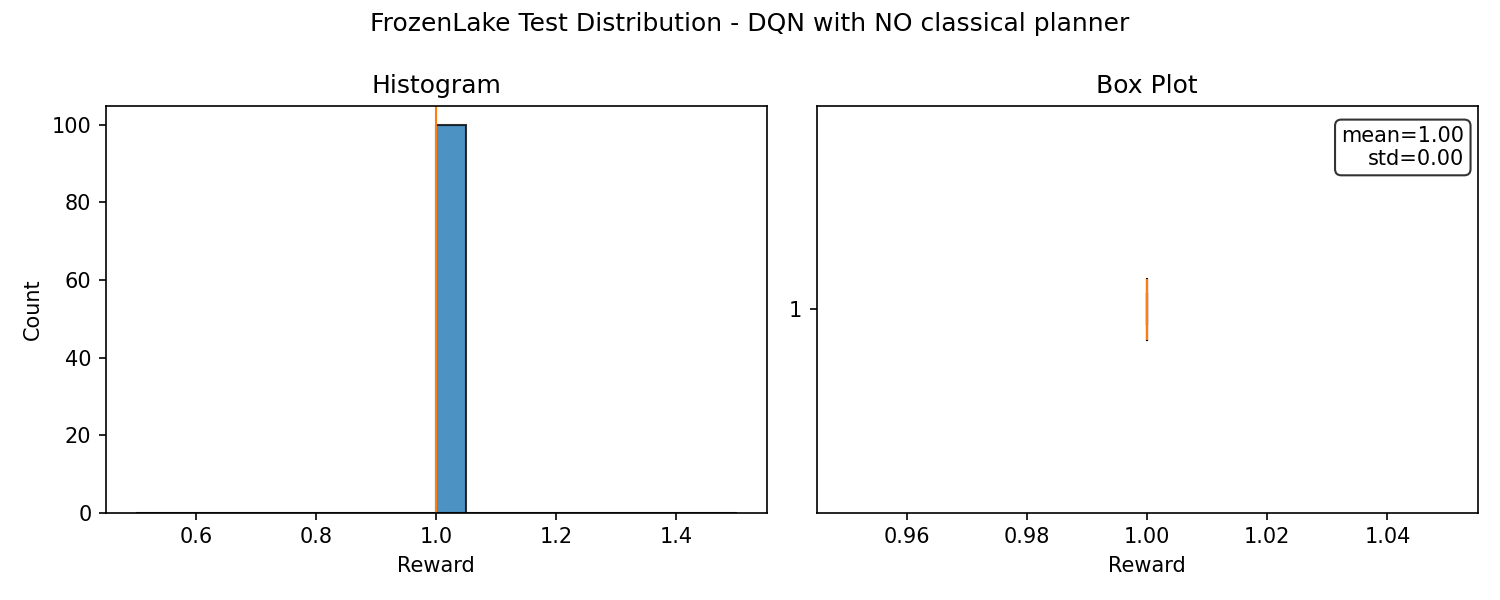
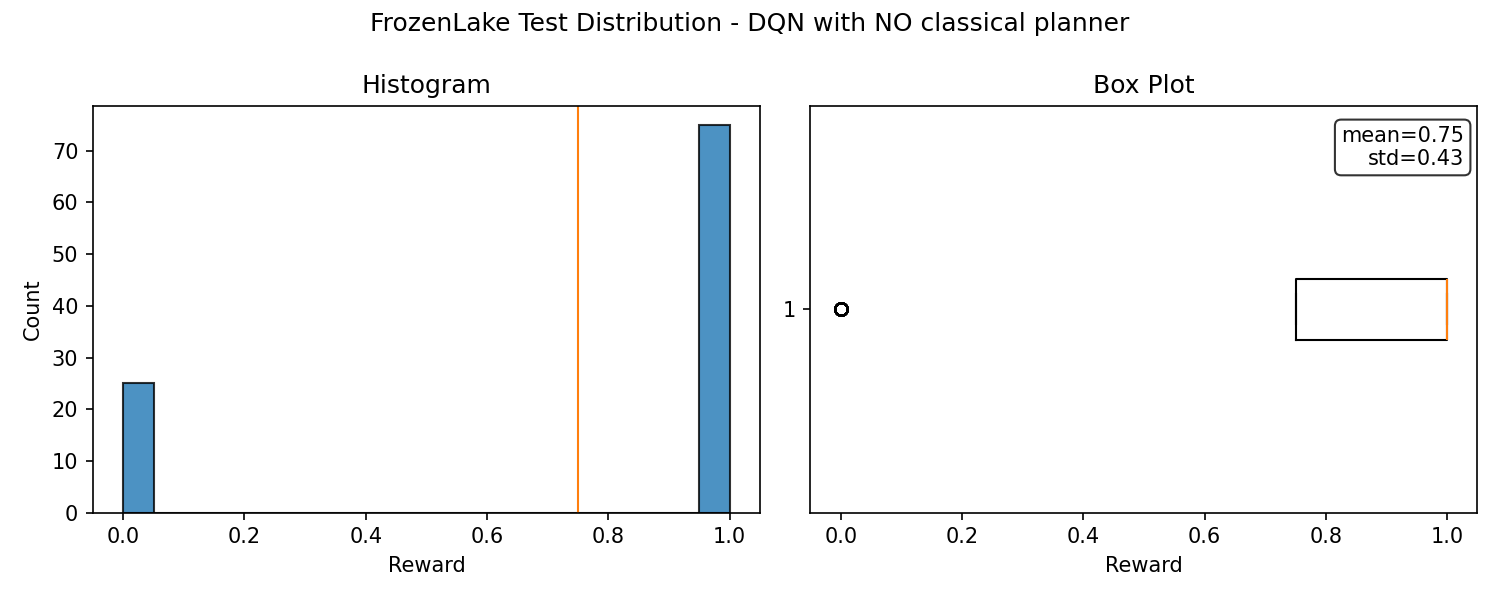
complete removal of plan horizon and fix episode environments/seeds

diff --git a/planned-deterministic-frozen-lake/dqn_agent.py b/planned-deterministic-frozen-lake/dqn_agent.py
@@ -35,11 +35,11 @@ GAMMA = 0.99
 LR = 1e-3
 EPSILON_START = 1.0
 EPSILON_MIN = 0.05
-EPSILON_DECAY_STEPS = 5000
-MEMORY_SIZE = 5000
-BATCH_SIZE = 64
-WARM_UP_STEPS = 128
-TARGET_UPDATE_STEPS = 50
+EPSILON_DECAY_STEPS = 50000
+MEMORY_SIZE = 50000
+BATCH_SIZE = 128
+WARM_UP_STEPS = 512
+TARGET_UPDATE_STEPS = 100
 
 
 # ===============================
@@ -92,8 +92,6 @@ class DQNAgent:
         self.planner_misses = 0
         self.planner_cache_hits = 0
         self._plan_cache: Dict[int, Optional[List[str]]] = {}
-        self._await_planned_outcome = False
-        self._expected_next_state_after_planned_action = -1
 
     def one_hot(self, state):
         vec = np.zeros(self.state_size, dtype=np.float32)
@@ -104,14 +102,12 @@ class DQNAgent:
         if random.random() < self.epsilon:
             return self.select_explore_action(env, state)
 
-        self._clear_planned_step_expectation()
         return self.select_exploit_action(state)
 
     def select_explore_action(self, env, state):
         if self.use_planner:
             return self.select_planned_action(env, state)
 
-        self._clear_planned_step_expectation()
         return random.randrange(self.action_size)
 
     def select_exploit_action(self, state):
@@ -124,28 +120,8 @@ class DQNAgent:
     def select_planned_action(self, env, state):
         planned_action = self.get_planned_action(env, state)
         if planned_action is None:
-            self._clear_planned_step_expectation()
             return random.randrange(self.action_size)
-        action, expected_next = planned_action
-        self._set_planned_step_expectation(expected_next)
-        return action
-
-    def _set_planned_step_expectation(self, expected_next_state: int) -> None:
-        self._await_planned_outcome = True
-        self._expected_next_state_after_planned_action = expected_next_state
-
-    def _clear_planned_step_expectation(self) -> None:
-        self._await_planned_outcome = False
-        self._expected_next_state_after_planned_action = -1
-
-    def validate_planned_transition(self, next_state: int) -> None:
-        if not self.use_planner or not self._await_planned_outcome:
-            self._clear_planned_step_expectation()
-            return
-        if next_state != self._expected_next_state_after_planned_action:
-            self._clear_planned_step_expectation()
-        else:
-            self._clear_planned_step_expectation()
+        return planned_action
 
     def get_planned_action(self, env, state):
         if state in self._plan_cache:
@@ -162,11 +138,9 @@ class DQNAgent:
         if plan is None or len(plan) == 0:
             return None
 
-        # "move_{s}_{next_state}_{a}" -> (gym_action, expected_next_state)
+        # "move_{s}_{next_state}_{a}" -> gym_action
         parts = plan[0].split("_")
-        gym_action = int(parts[-1])
-        expected_next = int(parts[-2])
-        return gym_action, expected_next
+        return int(parts[-1])
 
     def store(self, transition):
         self.memory.append(transition)
@@ -225,6 +199,10 @@ def _win_rate(reward_list):
     return sum(1 for r in reward_list if r > 0) / len(reward_list)
 
 
+def _evaluation_episode_seed(base_seed, episode_idx):
+    return None if base_seed is None else base_seed + episode_idx
+
+
 def train_dqn(episodes, use_planner, rng_seed, env_seed, log_every=50):
     set_seed(rng_seed)
     env_base = env_seed
@@ -248,8 +226,10 @@ def train_dqn(episodes, use_planner, rng_seed, env_seed, log_every=50):
     rewards = []
 
     for ep in range(episodes):
-        state, _ = env.reset(seed=env_base)
-        agent._clear_planned_step_expectation()
+        # Seed only the first reset so the run is reproducible without replaying
+        # the same slippery outcomes at the start of every episode.
+        episode_seed = env_base if ep == 0 else None
+        state, _ = env.reset(seed=episode_seed)
         done = False
         total_reward = 0
 
@@ -258,8 +238,6 @@ def train_dqn(episodes, use_planner, rng_seed, env_seed, log_every=50):
 
             next_state, reward, terminated, truncated, _ = env.step(action)
             done = terminated or truncated
-
-            agent.validate_planned_transition(next_state)
 
             agent.store((state, action, reward, next_state, done))
 
@@ -326,12 +304,12 @@ def test_dqn(agent, episodes, rng_seed=42, env_seed=42):
     agent.planner_calls = 0
     agent.planner_misses = 0
     agent.planner_cache_hits = 0
-    agent._clear_planned_step_expectation()
 
     episode_rewards = []
-    for _ in range(episodes):
-        state, _ = env.reset(seed=env_base)
-        agent._clear_planned_step_expectation()
+    for ep in range(episodes):
+        # Reuse the same deterministic seed schedule across agents so evaluation
+        # stays fair while still covering different stochastic episodes.
+        state, _ = env.reset(seed=_evaluation_episode_seed(env_base, ep))
         done = False
         total_reward = 0
 
@@ -339,7 +317,6 @@ def test_dqn(agent, episodes, rng_seed=42, env_seed=42):
             action = agent.select_action(env, state)
             state, reward, terminated, truncated, _ = env.step(action)
             done = terminated or truncated
-            agent.validate_planned_transition(state)
             total_reward += reward
             agent.steps_done += 1
 

diff --git a/planned-deterministic-frozen-lake/main.py b/planned-deterministic-frozen-lake/main.py
@@ -5,7 +5,7 @@ from plot_utility import plot_test_distribution, plot_training_curve
 # --- Run Configuration ---
 RNG_SEED = 42
 ENV_SEED = None  # if None, uses RNG_SEED for Gymnasium env.reset base
-TRAIN_EPISODES = 500
+TRAIN_EPISODES = 5000
 TEST_EPISODES = 100
 
 
